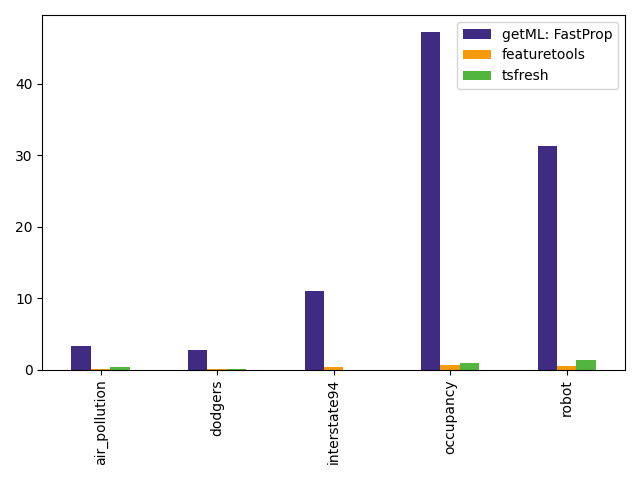
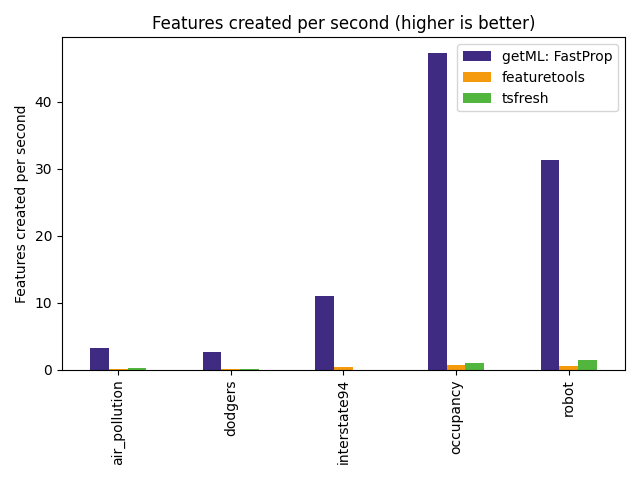
Add labels and titles to plots; add perf. plot

diff --git a/comparisons/comparisons.py b/comparisons/comparisons.py
@@ -28,8 +28,11 @@ ax = (
     .plot.bar(color=colors.values())
 )
 
+ax.set_ylabel("Normalized runtime/feature \n (getML=1)")
+ax.set_title("Runtime per feature on different data sets (lower is better)")
+
 plt.tight_layout()
-plt.savefig("spf.png")
+plt.savefig("nrpf.png")
 
 
 ax2 = (
@@ -37,6 +40,9 @@ ax2 = (
     .iloc[:, [1, 0, 2]]
     .plot.bar(color=colors.values())
 )
+
+ax2.set_ylabel("Features created per second")
+ax2.set_title("Features created per second (higher is better)")
 
 plt.tight_layout()
 plt.savefig("fps.png")
@@ -51,7 +57,23 @@ ax3 = sc_data.plot.scatter(x="features_per_second", y="auc/rsquared", c=col)
 
 # for i, dat in enumerate(sc_data.index.get_level_values(0)):
 #     point = ax3.get_children()[0].get_offsets().data[i]
-#     ax3.annotate(dat, (point[0] + 0.05, point[1]))
+#     offset = (0.001, 0.01)
+#     ax3.annotate(dat, (point[0] + offset[0], point[1] + offset[1]))
+
+ax3.set_ylabel("AUC/Rsquared")
+ax3.set_xlabel("Features/second")
+ax3.set_title("Performance vs. speed")
 
 plt.tight_layout()
 plt.savefig("auc-rsquared_fps.png")
+
+
+ax4 = (
+    sc_data["auc/rsquared"].unstack().iloc[:, [1, 0, 2]].plot.bar(color=colors.values())
+)
+
+ax4.set_ylabel("AUC/Rsquared")
+ax4.set_title("Performance (higher is better)")
+
+plt.tight_layout()
+plt.savefig("performance.png")
